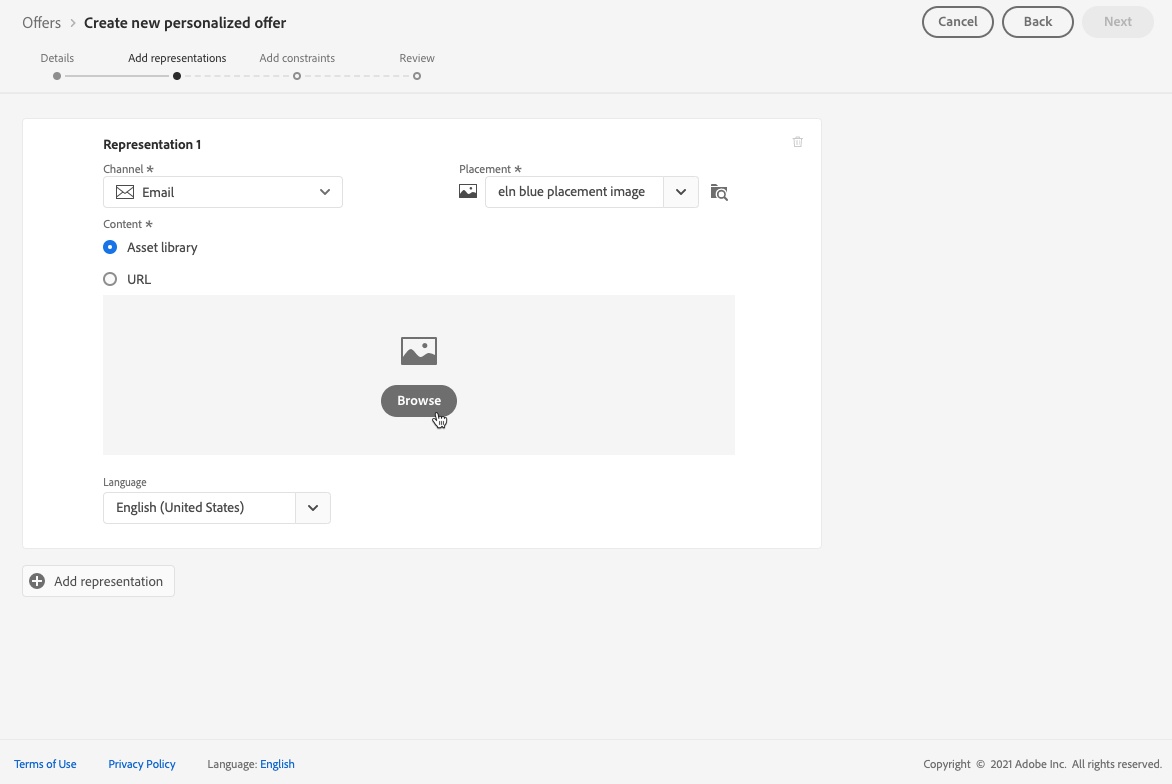
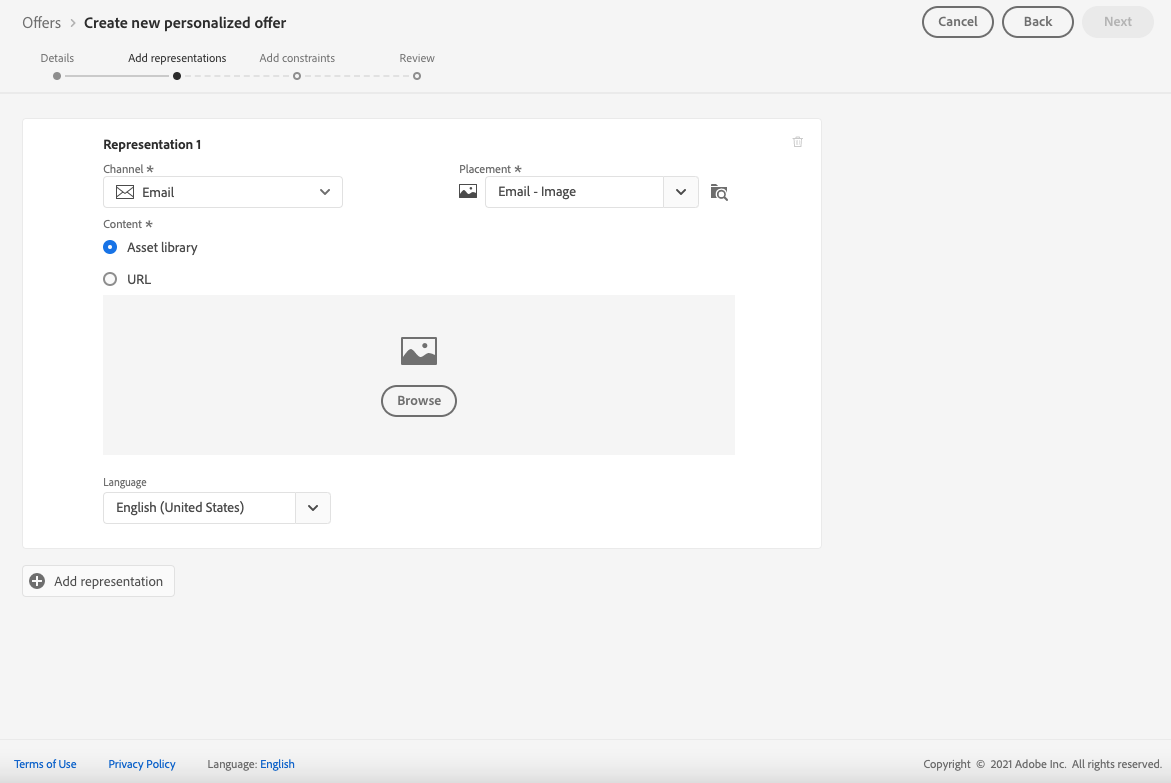
Representation flow updated

diff --git a/help/offer-library/creating-personalized-offers.md b/help/offer-library/creating-personalized-offers.md
@@ -54,13 +54,13 @@ To add and configure one or multiple representations to your offer, follow the s
 
     ![](../assets/channel-placement.png)
 
-    The available placements for the selected channel display in the **[!UICONTROL Placement]** drop-down list.
+    Only the available placements for the selected channel display in the **[!UICONTROL Placement]** drop-down list.
 
-1. Use the button next to the **[!UICONTROL Placement]** drop-down list to browse the available placements.
+1. Select a placement from the list or use the button next to the **[!UICONTROL Placement]** drop-down list to browse all the placements.
 
     ![](../assets/browse-button-placements.png)
 
-1. You can filter the placements according to their channel and/or content type. Choose a placement and click **[!UICONTROL Select]**.
+1. Here you can filter the placements according to their channel and/or content type. Choose a placement and click **[!UICONTROL Select]**.
 
     ![](../assets/browse-placements.png)
 
@@ -70,17 +70,17 @@ To add and configure one or multiple representations to your offer, follow the s
     >
     >Only content corresponding to the placement's content type is available for use.
     
-1. If the selected placement is of image-type, you can add content coming from the Adobe Experience Cloud Assets library.
+1. If the selected placement is of image-type, you can add content coming from the Adobe Experience Cloud Asset library, a centralized repository of assets provided by [!DNL Adobe Experience Manager Assets Essentials].
 
     >[!NOTE]
     >
-    > To work with [Adobe Experience Manager Assets Essentials](https://experienceleague.adobe.com/docs/journey-optimizer/using/create-messages/assets-essentials.html?lang=en){target="_blank"}, you need to deploy [!DNL Assets Essentials] for your organization and make sure that users are a part of the **Assets Essentials Consumer Users** or/and **Assets Essentials Users** Product profiles. Learn more on [this page](https://experienceleague.adobe.com/docs/experience-manager-assets-essentials/help/deploy-administer.html){target="_blank"}.
+    > To work with [Adobe Experience Manager Assets Essentials](https://experienceleague.adobe.com/docs/experience-manager-assets-essentials/help/introduction.html?lang=en){target="_blank"}, you need to deploy [!DNL Assets Essentials] for your organization and make sure that users are a part of the **Assets Essentials Consumer Users** or/and **Assets Essentials Users** Product profiles. Learn more on [this page](https://experienceleague.adobe.com/docs/experience-manager-assets-essentials/help/deploy-administer.html){target="_blank"}.
     
-    To do so, choose the **[!UICONTROL Asset library]** option and select **[!UICONTROL Browse]**.
+    Choose the **[!UICONTROL Asset library]** option and select **[!UICONTROL Browse]**.
 
     ![](../assets/offer-browse-asset-library.png)
 
-1. Browse the library to select the image of your choice.
+1. Browse the assets to select the image of your choice and click **[!UICONTROL Select]**.
 
     ![](../assets/offer-select-asset.png)
 
@@ -90,23 +90,23 @@ To add and configure one or multiple representations to your offer, follow the s
 
     ![](../assets/offer-destination-link.png)
 
-1. To add image content from an external public location, select **[!UICONTROL URL]**, then specify the URL (and Destination link) of the content to add.
+1. To add image content from an external public location, select **[!UICONTROL URL]**, then enter the URL address of the content to add.
 
-    Make sure that the content you are adding corresponds to the selected placement's content type.
+    <!--Make sure that the content you are adding corresponds to the selected placement's content type.-->
 
-    ![](../assets/offer_add_content.png)
+    ![](../assets/offer-content-url.png)
 
-1. You can also insert text-type content: click the **[!UICONTROL Add content]** button, then select the **[!UICONTROL Custom text]** option. In the **[!UICONTROL Text]** field, type the text that will display in the offer.
+1. You can also insert text-type content when selecting a compatible placement: select the **[!UICONTROL Custom]** option and type the text that will display in the offer.
 
     >[!NOTE]
     >
     >This option is not available for image-type placements.
 
-    ![](../assets/offer_text_content.png)
+    ![](../assets/offer-text-content.png)
 
-1. To add another representation, use the **[!UICONTROL Add representation]** button.
+1. To add another representation, use the **[!UICONTROL Add representation]** button and add as many representations as needed.
 
-1. Once you added all the representations, select **[!UICONTROL Next]**.
+1. Once you added all your representations, select **[!UICONTROL Next]**.
 
 ## Add eligibility rules and constraints {#eligibility}
 
